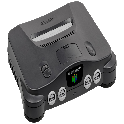
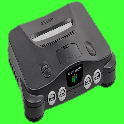
working textures

diff --git a/src/main/java/com/github/hydos/ginger/engine/opengl/render/renderers/GLGLTriRenderer.java b/src/main/java/com/github/hydos/ginger/engine/opengl/render/renderers/GLGLTriRenderer.java
@@ -6,11 +6,13 @@ import com.github.hydos.ginger.engine.common.render.Renderer;
 import com.github.hydos.ginger.engine.opengl.render.GLRenderManager;
 import com.github.hydos.ginger.engine.opengl.render.models.RawModel;
 import com.github.hydos.ginger.engine.opengl.render.shaders.GLObjectShader;
+import com.github.hydos.ginger.engine.opengl.render.texture.ModelTexture;
 import gln64j.GLN64jPlugin;
 import gln64j.OpenGlGdp;
 import org.joml.Matrix4f;
 import org.joml.Vector3f;
 import org.lwjgl.opengl.GL11;
+import org.lwjgl.opengl.GL13;
 import org.lwjgl.opengl.GL20;
 import org.lwjgl.opengl.GL30;
 
@@ -18,11 +20,8 @@ public class GLGLTriRenderer extends Renderer {
 
     private final GLObjectShader shader;
 
-    public GLGLTriRenderer(GLObjectShader shader, Matrix4f projectionMatrix) {
+    public GLGLTriRenderer(GLObjectShader shader) {
         this.shader = shader;
-        shader.start();
-        shader.loadProjectionMatrix(projectionMatrix);
-        shader.stop();
     }
 
     public void prepare() {
@@ -30,34 +29,28 @@ public class GLGLTriRenderer extends Renderer {
     }
 
     private void prepareInstance() {
-        Matrix4f transformationMatrix = Maths.createTransformationMatrix(new Vector3f(0, 0, 0), 0, 0, 0, new Vector3f(1, 1, 1));
-        shader.loadTransformationMatrix(transformationMatrix);
     }
 
     private RawModel prepareVerts(OpenGlGdp.GLVertex[] vertices) {
         RawModel rawModel = RawModel.fromVerts(vertices);
         GL30.glBindVertexArray(rawModel.getVaoID());
-
         GL20.glEnableVertexAttribArray(0);
-        shader.loadFakeLightingVariable(true);
-        shader.loadShine(1, 1);
-        shader.loadColour(new Vector3f(0.6f, 0.4f, 0.4f));
+        GL20.glEnableVertexAttribArray(1);
         return rawModel;
     }
 
     private void unbind() {
         GL20.glDisableVertexAttribArray(0);
+        GL20.glDisableVertexAttribArray(1);
         GL30.glBindVertexArray(0);
     }
 
     public void render(OpenGlGdp.GLVertex[] vertices) {
         prepare();
         shader.start();
-        shader.loadSkyColour(Window.getColour());
-        shader.loadViewMatrix(GLN64jPlugin.camera);
         prepareInstance();
         RawModel model = prepareVerts(vertices);
-
+        GL13.glActiveTexture(GL13.GL_TEXTURE0);
         GL11.glDrawArrays(GL11.GL_TRIANGLES, 0, model.getVertexCount());
         unbind();
         shader.stop();

diff --git a/src/main/java/com/github/hydos/ginger/engine/opengl/render/shaders/GLObjectShader.java b/src/main/java/com/github/hydos/ginger/engine/opengl/render/shaders/GLObjectShader.java
@@ -9,14 +9,6 @@ import org.joml.Vector3f;
 import java.util.List;
 
 public class GLObjectShader extends ShaderProgram {
-    private int location_transformationMatrix;
-    private int location_projectionMatrix;
-    private int location_viewMatrix;
-    private int location_shineDamper;
-    private int location_reflectivity;
-    private int location_useFakeLighting;
-    private int location_skyColour;
-    private int location_colour;
 
     public GLObjectShader() {
         super("entityVertexShader.glsl", "entityFragmentShader.glsl");
@@ -30,43 +22,5 @@ public class GLObjectShader extends ShaderProgram {
 
     @Override
     protected void getAllUniformLocations() {
-        location_transformationMatrix = super.getUniformLocation("transformationMatrix");
-        location_projectionMatrix = super.getUniformLocation("projectionMatrix");
-        location_viewMatrix = super.getUniformLocation("viewMatrix");
-        location_shineDamper = super.getUniformLocation("shineDamper");
-        location_reflectivity = super.getUniformLocation("reflectivity");
-        location_useFakeLighting = super.getUniformLocation("useFakeLighting");
-        location_skyColour = super.getUniformLocation("skyColour");
-        location_colour = super.getUniformLocation("colour");
-    }
-
-    public void loadFakeLightingVariable(boolean useFake) {
-        super.loadBoolean(location_useFakeLighting, useFake);
-    }
-
-    public void loadProjectionMatrix(Matrix4f matrix) {
-        super.loadMatrix(location_projectionMatrix, matrix);
-    }
-
-    public void loadShine(float damper, float reflectivity) {
-        super.loadFloat(location_shineDamper, damper);
-        super.loadFloat(location_reflectivity, reflectivity);
-    }
-
-    public void loadSkyColour(Vector3f colour) {
-        super.loadVector(location_skyColour, colour);
-    }
-
-    public void loadTransformationMatrix(Matrix4f matrix) {
-        super.loadMatrix(location_transformationMatrix, matrix);
-    }
-
-    public void loadViewMatrix(Camera camera) {
-        Matrix4f matrix = Maths.createViewMatrix(camera);
-        super.loadMatrix(location_viewMatrix, matrix);
-    }
-
-    public void loadColour(Vector3f colour){
-        super.loadVector(location_colour, colour);
     }
 }

diff --git a/src/main/java/com/github/hydos/ginger/engine/opengl/render/texture/ModelTexture.java b/src/main/java/com/github/hydos/ginger/engine/opengl/render/texture/ModelTexture.java
@@ -4,28 +4,17 @@ import org.lwjgl.opengl.*;
 
 public class ModelTexture
 {
-	private int textureID = GL11.glGenTextures();
+	private final int textureID = GL11.glGenTextures();
 	private boolean transparency = false;
 	private boolean useFakeLighting = false;
-	public int numberOfRows = 1;
-	private int normalMap;
 	private float shineDamper = 1;
 	private float reflectivity = 0;
 	private Image texture;
 
-	public ModelTexture(Image texture)
-	{
-		GL11.glBindTexture(GL11.GL_TEXTURE_2D, this.textureID);
-		GL11.glTexParameterf(GL11.GL_TEXTURE_2D, 10241, 9729.0f);
-		GL11.glTexParameterf(GL11.GL_TEXTURE_2D, 10240, 9729.0f);
-		GL11.glTexImage2D(GL11.GL_TEXTURE_2D, 0, 6408, texture.getWidth(), texture.getHeight(), 0, 6408, 5121, texture.getImage());
-		GL11.glBindTexture(GL11.GL_TEXTURE_2D, 0);
-	}
-
 	public ModelTexture(String file)
 	{
 		// TODO: Add a missing texture placholder in case of null file.
-		texture = Image.createImage("/textures/" + file);
+		texture = Image.createImage(file);
 		GL11.glBindTexture(GL11.GL_TEXTURE_2D, this.textureID);
 		GL11.glTexParameterf(GL11.GL_TEXTURE_2D, 10241, 9729.0f);
 		GL11.glTexParameterf(GL11.GL_TEXTURE_2D, 10240, 9729.0f);
@@ -35,9 +24,6 @@ public class ModelTexture
 		GL11.glTexParameteri(GL11.GL_TEXTURE_2D, GL11.GL_TEXTURE_MIN_FILTER, GL11.GL_LINEAR_MIPMAP_LINEAR);
 		GL11.glTexParameterf(GL11.GL_TEXTURE_2D, GL14.GL_TEXTURE_LOD_BIAS, -0.4f);
 	}
-
-	public int getNormalMap()
-	{ return normalMap; }
 
 	public float getReflectivity()
 	{ return reflectivity; }
@@ -56,22 +42,4 @@ public class ModelTexture
 
 	public boolean isUseFakeLighting()
 	{ return useFakeLighting; }
-
-	public void remove()
-	{ GL11.glDeleteTextures(this.textureID); }
-
-	public void setNormalMap(int normalMap)
-	{ this.normalMap = normalMap; }
-
-	public void setReflectivity(float reflectivity)
-	{ this.reflectivity = reflectivity; }
-
-	public void setShineDamper(float shineDamper)
-	{ this.shineDamper = shineDamper; }
-
-	public void setTransparency(boolean b)
-	{ this.transparency = b; }
-
-	public void useFakeLighting(boolean useFakeLighting)
-	{ this.useFakeLighting = useFakeLighting; }
 }

diff --git a/src/main/java/com/github/hydos/ginger/engine/opengl/render/models/RawModel.java b/src/main/java/com/github/hydos/ginger/engine/opengl/render/models/RawModel.java
@@ -2,6 +2,7 @@ package com.github.hydos.ginger.engine.opengl.render.models;
 
 import com.github.hydos.ginger.engine.opengl.utils.GLLoader;
 import gln64j.OpenGlGdp;
+import org.joml.Vector2f;
 
 public class RawModel
 {
@@ -15,10 +16,16 @@ public class RawModel
 	}
 
     public static RawModel fromVerts(OpenGlGdp.GLVertex[] vertices) {
-		return GLLoader.loadToVAO(getEmuVertsTriangle(vertices) ,4); //perspective is currently done in cpu so its 4
+		float[][] data = processEmuVerts(vertices);
+		return GLLoader.loadEmuVertsToVAO(data[0], data[1]);
     }
 
-	private static float[] getEmuVertsTriangle(OpenGlGdp.GLVertex[] vertices) {
+	private static float[][] processEmuVerts(OpenGlGdp.GLVertex[] vertices) {
+		float[][] meshData = new float[2][];
+		// 0 = position
+		// 1 = tex coords
+		// 2 = im not sure yet
+
 		float[] verts = new float[vertices.length * 4];
 		int i = 0;
 		for(OpenGlGdp.GLVertex vertexData : vertices){
@@ -31,7 +38,24 @@ public class RawModel
 			verts[i] = vertexData.vtx.get(3);
 			i++;
 		}
-		return verts;
+
+		float[] texCoords = new float[vertices.length * 2];
+		i = 0;
+		for(OpenGlGdp.GLVertex vertexData : vertices){
+			texCoords[i] = vertexData.tex0.get(0);
+			i++;
+			texCoords[i] = vertexData.tex0.get(1);
+			i++;
+
+//			texCoords[i] = vertexData.tex1.get(0);
+//			i++;
+//			texCoords[i] = vertexData.tex1.get(1);
+//			i++;
+		}
+
+		meshData[0] = verts;
+		meshData[1] = texCoords;
+		return meshData;
 	}
 
     public static RawModel quad(float[] verts) {

diff --git a/src/main/java/com/github/hydos/ginger/engine/opengl/render/renderers/GLObjectRenderer.java b/src/main/java/com/github/hydos/ginger/engine/opengl/render/renderers/GLObjectRenderer.java
@@ -23,7 +23,6 @@ public class GLObjectRenderer extends Renderer
 	{
 		this.shader = shader;
 		shader.start();
-		shader.loadProjectionMatrix(projectionMatrix);
 		shader.stop();
 	}
 
@@ -33,7 +32,6 @@ public class GLObjectRenderer extends Renderer
 	private void prepareInstance(GLRenderObject entity)
 	{
 		Matrix4f transformationMatrix = Maths.createTransformationMatrix(entity.getPosition(), entity.getRotX(), entity.getRotY(), entity.getRotZ(), entity.getScale());
-		shader.loadTransformationMatrix(transformationMatrix);
 	}
 
 	private void prepareTexturedModel(GLTexturedModel model)
@@ -52,8 +50,6 @@ public class GLObjectRenderer extends Renderer
 		{
 			GLRenderManager.enableCulling();
 		}
-		shader.loadFakeLightingVariable(texture.isUseFakeLighting());
-		shader.loadShine(texture.getShineDamper(), texture.getReflectivity());
 		GL13.glActiveTexture(GL13.GL_TEXTURE0);
 		GL11.glBindTexture(GL11.GL_TEXTURE_2D, model.getTexture().getTextureID());
 	}
@@ -88,8 +84,6 @@ public class GLObjectRenderer extends Renderer
 	{
 		prepare();
 		shader.start();
-		shader.loadSkyColour(Window.getColour());
-		shader.loadViewMatrix(GingerRegister.getInstance().game.data.camera);
 		for (GLRenderObject entity : renderList)
 		{
 			if (entity != null && entity.getModel() != null)

diff --git a/src/main/java/com/github/hydos/ginger/engine/opengl/render/renderers/GLGLQuadRenderer.java b/src/main/java/com/github/hydos/ginger/engine/opengl/render/renderers/GLGLQuadRenderer.java
@@ -21,7 +21,6 @@ public class GLGLQuadRenderer extends Renderer {
     public GLGLQuadRenderer(GLObjectShader shader, Matrix4f projectionMatrix) {
         this.shader = shader;
         shader.start();
-        shader.loadProjectionMatrix(projectionMatrix);
         shader.stop();
     }
 
@@ -31,15 +30,12 @@ public class GLGLQuadRenderer extends Renderer {
 
     private void prepareInstance() {
         Matrix4f transformationMatrix = Maths.createTransformationMatrix(new Vector3f(0, 0, 0), 0, 0, 0, new Vector3f(1, 1, 1));
-        shader.loadTransformationMatrix(transformationMatrix);
     }
 
     private RawModel prepQuad(float[] verts) {
         RawModel rawModel = RawModel.quad(verts);
         GL30.glBindVertexArray(rawModel.getVaoID());
         GL20.glEnableVertexAttribArray(0);
-        shader.loadFakeLightingVariable(true);
-        shader.loadShine(1, 1);
         Random r = new Random();
         return rawModel;
     }
@@ -52,8 +48,6 @@ public class GLGLQuadRenderer extends Renderer {
     public void render(float[] verts) {
         prepare();
         shader.start();
-        shader.loadSkyColour(Window.getColour());
-        shader.loadViewMatrix(GLN64jPlugin.camera);
         prepareInstance();
         RawModel model = prepQuad(verts);
 

diff --git a/src/main/java/gln64j/OpenGl.java b/src/main/java/gln64j/OpenGl.java
@@ -70,7 +70,7 @@ public class OpenGl {
             GLUtils.init();
             GLObjectShader shader = new GLObjectShader();
             Matrix4f projectionMatrix = GLRenderManager.createProjectionMatrix();
-            GLN64jPlugin.triRenderer = new GLGLTriRenderer(shader, projectionMatrix);
+            GLN64jPlugin.triRenderer = new GLGLTriRenderer(shader);
             GLN64jPlugin.quadRenderer = new GLGLQuadRenderer(shader, projectionMatrix);
             GLN64jPlugin.camera = new FirstPersonCamera();
             GingerGL gingerGL = new GingerGL();
@@ -125,9 +125,6 @@ public class OpenGl {
 
     private static boolean fog;
 
-    /** Creates a new instance of OpenGl */
-    private OpenGl() {
-    }
     
     public static void config() {
         fog = false; //TODO: add this if fog is on program?

diff --git a/src/main/java/com/github/hydos/ginger/engine/opengl/utils/GLLoader.java b/src/main/java/com/github/hydos/ginger/engine/opengl/utils/GLLoader.java
@@ -147,6 +147,15 @@ public class GLLoader
 		return new RawModel(vaoID, positions.length / dimensions);
 	}
 
+	public static RawModel loadEmuVertsToVAO(float[] positions, float[] texCoords)
+	{
+		int vaoID = createVAO();
+		storeDataInAttributeList(0, 4, positions);
+		storeDataInAttributeList(1, 2, texCoords);
+		unbindVAO();
+		return new RawModel(vaoID, positions.length / 4);
+	}
+
 	public static RawModel loadToVAO(float[] positions, int[] indices, float[] normals, float[] textureCoords)
 	{
 		int vaoID = createVAO();

diff --git a/src/main/java/gln64j/OpenGlGdp.java b/src/main/java/gln64j/OpenGlGdp.java
@@ -71,7 +71,7 @@ public class OpenGlGdp {
         }
 
         if (Debug.DEBUG_OGL) System.out.println("GL_NV_register_combiners: " + Combiners.NV_register_combiners);
-        Combiners.ARB_multitexture = gl.glGetString(GL.GL_EXTENSIONS).contains("GL_ARB_multitexture");
+        Combiners.ARB_multitexture = true;
         if (Debug.DEBUG_OGL) System.out.println("GL_ARB_multitexture: " + Combiners.ARB_multitexture);
         if (Combiners.ARB_multitexture) {
             int[] maxTextureUnits_t = new int[1];
